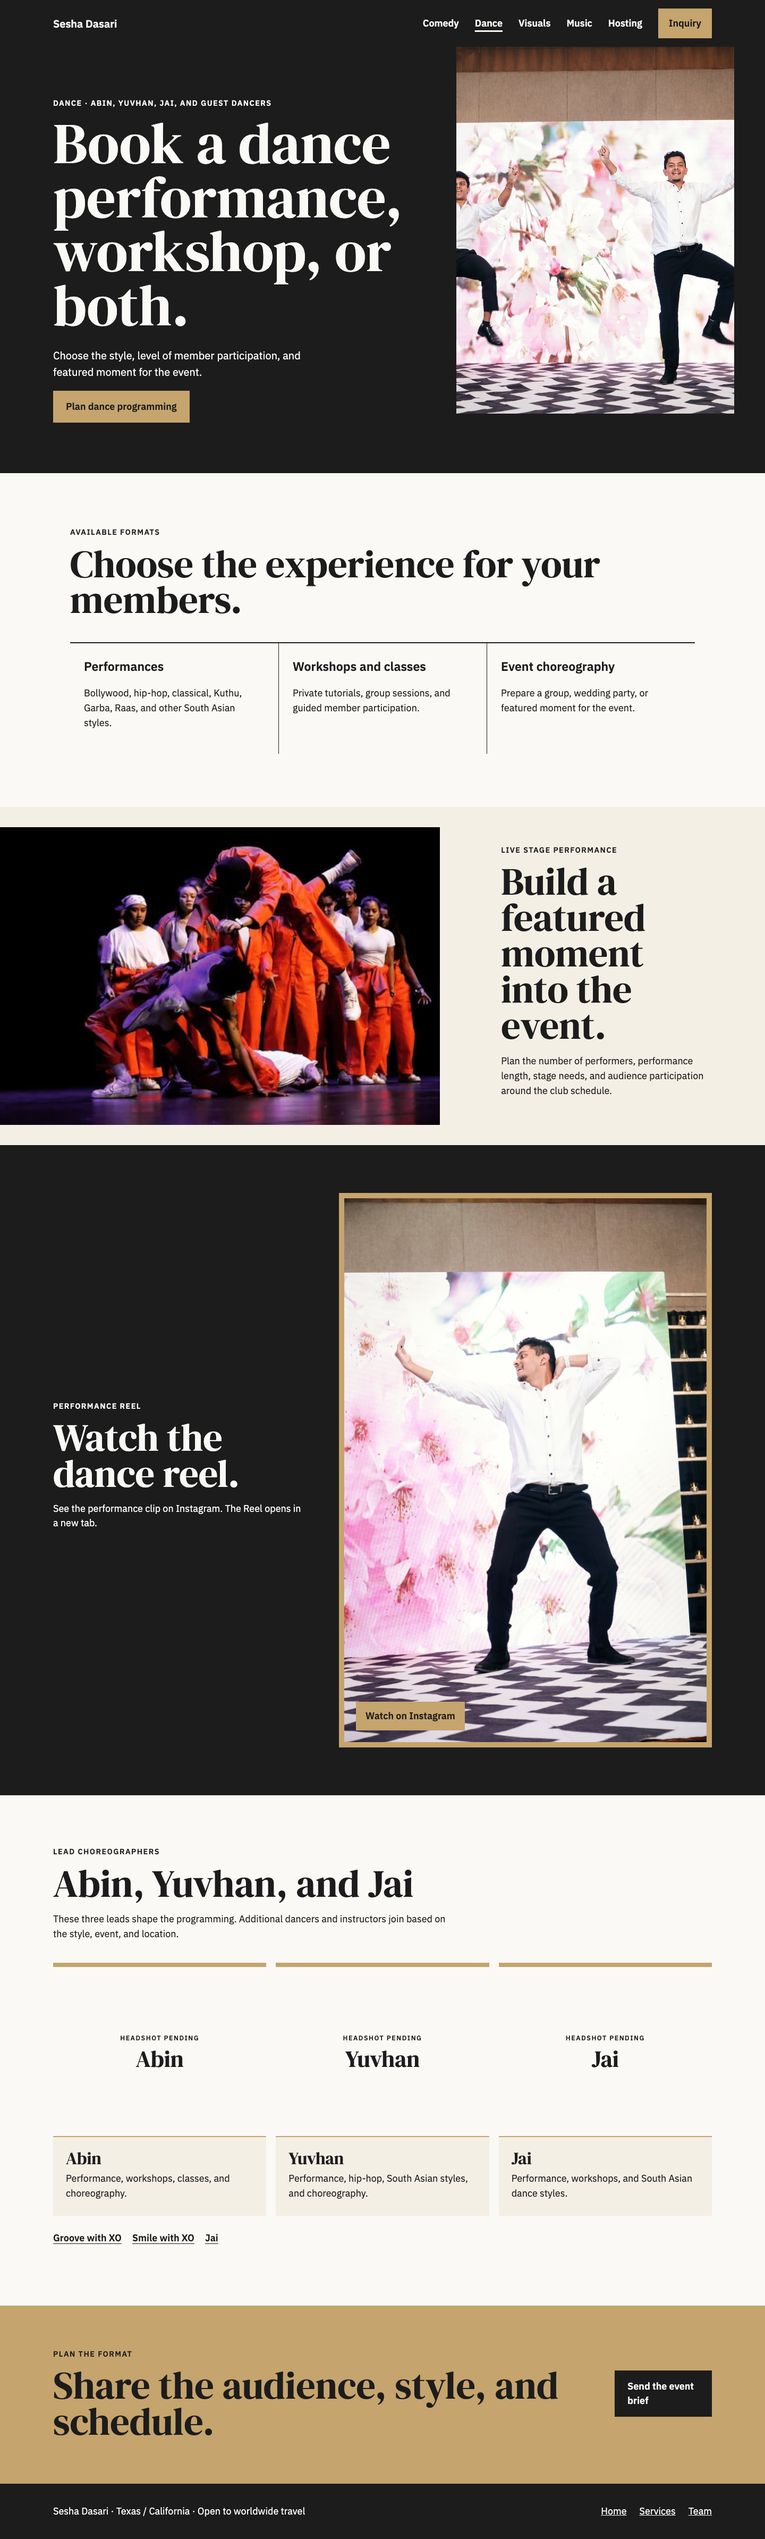
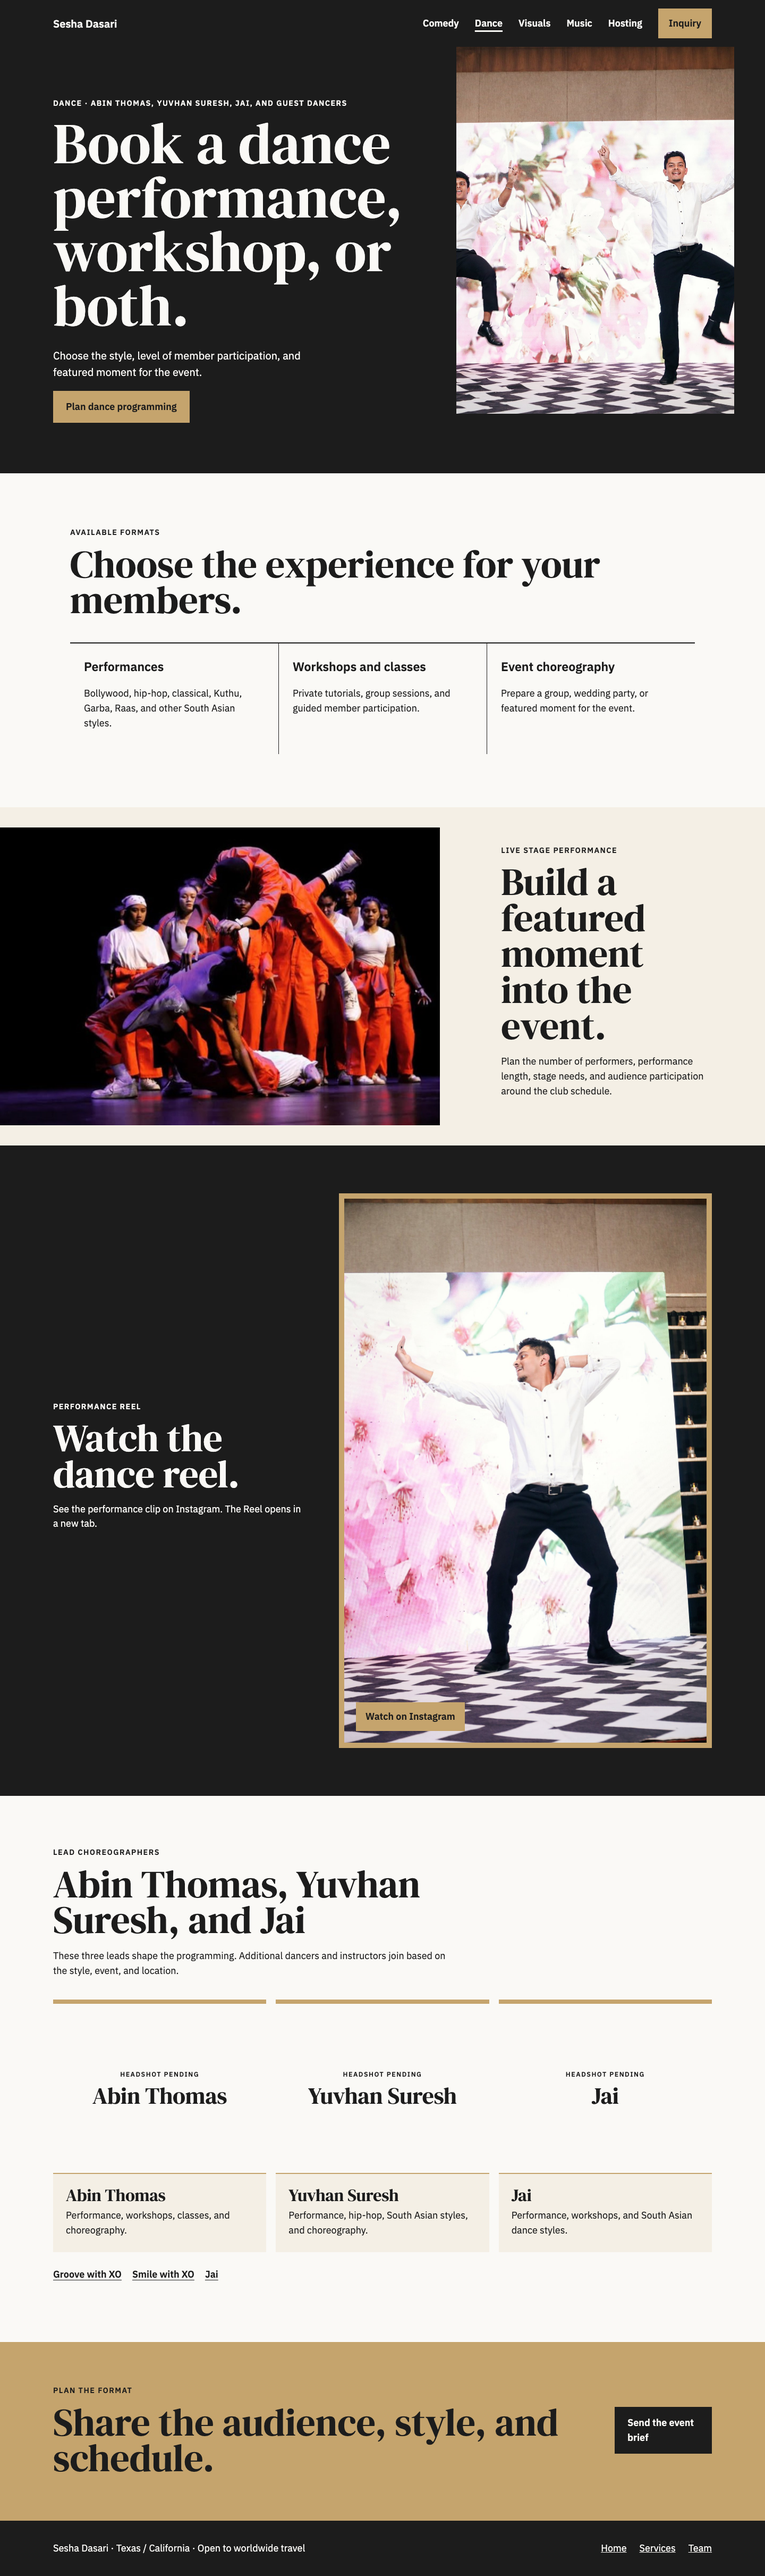
fix: publish dance lead surnames
Use Abin Thomas and Yuvhan Suresh consistently across the Dance, Services, Team, metadata, and handoff documentation. Keep Jai's surname unclaimed pending direct confirmation.

diff --git a/service-dance.html b/service-dance.html
@@ -1,12 +1,12 @@
 <!doctype html>
 <html lang="en">
-<head><meta charset="utf-8"><meta name="viewport" content="width=device-width, initial-scale=1"><meta name="description" content="Plan country-club dance performances, member workshops, choreography, and guided participation with Abin, Yuvhan, Jai, and guest dancers."><title>Country Club Dance Performances and Workshops | Sesha Dasari</title><link rel="preconnect" href="https://fonts.googleapis.com"><link rel="preconnect" href="https://fonts.gstatic.com" crossorigin><link href="https://fonts.googleapis.com/css2?family=DM+Serif+Display&family=IBM+Plex+Sans:wght@400;600&display=swap" rel="stylesheet"><link rel="stylesheet" href="variants.css"></head>
+<head><meta charset="utf-8"><meta name="viewport" content="width=device-width, initial-scale=1"><meta name="description" content="Plan country-club dance performances, member workshops, choreography, and guided participation with Abin Thomas, Yuvhan Suresh, Jai, and guest dancers."><title>Country Club Dance Performances and Workshops | Sesha Dasari</title><link rel="preconnect" href="https://fonts.googleapis.com"><link rel="preconnect" href="https://fonts.gstatic.com" crossorigin><link href="https://fonts.googleapis.com/css2?family=DM+Serif+Display&family=IBM+Plex+Sans:wght@400;600&display=swap" rel="stylesheet"><link rel="stylesheet" href="variants.css"></head>
 <body class="site-page variant-c c-inner-page"><a class="skip-link" href="#main">Skip to content</a><header class="site-top"><a class="site-brand" href="index.html">Sesha Dasari</a><nav aria-label="Main navigation"><a href="service-comedy.html">Comedy</a><a href="service-dance.html" aria-current="page">Dance</a><a href="service-media.html">Visuals</a><a href="service-music.html">Music</a><a href="service-hosting.html">Hosting</a><a class="nav-action" href="c-contact.html?service=dance">Inquiry</a></nav></header>
 <main id="main">
-  <section class="service-detail-hero"><div><p class="eyebrow">Dance · Abin, Yuvhan, Jai, and guest dancers</p><h1>Book a dance performance, workshop, or both.</h1><p class="lead">Choose the style, level of member participation, and featured moment for the event.</p><a class="primary-button" href="c-contact.html?service=dance">Plan dance programming</a></div><img src="assets/dance-team-performance.jpg" alt="Two dancers performing together on an event stage" width="2048" height="1365"></section>
+  <section class="service-detail-hero"><div><p class="eyebrow">Dance · Abin Thomas, Yuvhan Suresh, Jai, and guest dancers</p><h1>Book a dance performance, workshop, or both.</h1><p class="lead">Choose the style, level of member participation, and featured moment for the event.</p><a class="primary-button" href="c-contact.html?service=dance">Plan dance programming</a></div><img src="assets/dance-team-performance.jpg" alt="Two dancers performing together on an event stage" width="2048" height="1365"></section>
   <section class="detail-list" aria-labelledby="dance-includes"><p class="eyebrow">Available formats</p><h2 id="dance-includes">Choose the experience for your members.</h2><div><article><h3>Performances</h3><p>Bollywood, hip-hop, classical, Kuthu, Garba, Raas, and other South Asian styles.</p></article><article><h3>Workshops and classes</h3><p>Private tutorials, group sessions, and guided member participation.</p></article><article><h3>Event choreography</h3><p>Prepare a group, wedding party, or featured moment for the event.</p></article></div></section>
   <section class="photo-proof" aria-labelledby="dance-stage-title"><img src="assets/dance-ensemble-lift.jpg" alt="Dance ensemble performing a choreographed lift on stage" width="1280" height="634" loading="lazy"><div><p class="eyebrow">Live stage performance</p><h2 id="dance-stage-title">Build a featured moment into the event.</h2><p>Plan the number of performers, performance length, stage needs, and audience participation around the club schedule.</p></div></section>
   <section class="media-preview dance-reel-preview" aria-labelledby="dance-reel-title"><div><p class="eyebrow">Performance reel</p><h2 id="dance-reel-title">Watch the dance reel.</h2><p>See the performance clip on Instagram. The Reel opens in a new tab.</p></div><a class="reel-link" href="https://www.instagram.com/reel/DS6Wc6EjFTq/" target="_blank" rel="noreferrer" aria-label="Watch on Instagram: dance reel, opens in a new tab"><img src="assets/dance-solo-performance.jpg" alt="Dancer performing on a red-lit event stage" width="1365" height="2048" loading="lazy"><span>Watch on Instagram</span></a></section>
-  <section class="dance-leads" aria-labelledby="dance-leads-title"><div><p class="eyebrow">Lead choreographers</p><h2 id="dance-leads-title">Abin, Yuvhan, and Jai</h2><p>These three leads shape the programming. Additional dancers and instructors join based on the style, event, and location.</p></div><div class="dance-lead-grid"><article><div class="asset-placeholder"><span>Headshot pending</span><strong>Abin</strong></div><h3>Abin</h3><p>Performance, workshops, classes, and choreography.</p></article><article><div class="asset-placeholder"><span>Headshot pending</span><strong>Yuvhan</strong></div><h3>Yuvhan</h3><p>Performance, hip-hop, South Asian styles, and choreography.</p></article><article><div class="asset-placeholder"><span>Headshot pending</span><strong>Jai</strong></div><h3>Jai</h3><p>Performance, workshops, and South Asian dance styles.</p></article></div><p class="roster-links"><a href="https://www.instagram.com/groovewithxo" target="_blank" rel="noreferrer" aria-label="Groove with XO on Instagram, opens in a new tab">Groove with XO</a><a href="https://www.instagram.com/smilewithxo" target="_blank" rel="noreferrer" aria-label="Smile with XO on Instagram, opens in a new tab">Smile with XO</a><a href="https://www.instagram.com/jai.ramgopal" target="_blank" rel="noreferrer" aria-label="Jai Ramgopal on Instagram, opens in a new tab">Jai</a></p></section>
+  <section class="dance-leads" aria-labelledby="dance-leads-title"><div><p class="eyebrow">Lead choreographers</p><h2 id="dance-leads-title">Abin Thomas, Yuvhan Suresh, and Jai</h2><p>These three leads shape the programming. Additional dancers and instructors join based on the style, event, and location.</p></div><div class="dance-lead-grid"><article><div class="asset-placeholder"><span>Headshot pending</span><strong>Abin Thomas</strong></div><h3>Abin Thomas</h3><p>Performance, workshops, classes, and choreography.</p></article><article><div class="asset-placeholder"><span>Headshot pending</span><strong>Yuvhan Suresh</strong></div><h3>Yuvhan Suresh</h3><p>Performance, hip-hop, South Asian styles, and choreography.</p></article><article><div class="asset-placeholder"><span>Headshot pending</span><strong>Jai</strong></div><h3>Jai</h3><p>Performance, workshops, and South Asian dance styles.</p></article></div><p class="roster-links"><a href="https://www.instagram.com/groovewithxo" target="_blank" rel="noreferrer" aria-label="Groove with XO on Instagram, opens in a new tab">Groove with XO</a><a href="https://www.instagram.com/smilewithxo" target="_blank" rel="noreferrer" aria-label="Smile with XO on Instagram, opens in a new tab">Smile with XO</a><a href="https://www.instagram.com/jai.ramgopal" target="_blank" rel="noreferrer" aria-label="Jai Ramgopal on Instagram, opens in a new tab">Jai</a></p></section>
   <section class="inner-cta"><div><p class="eyebrow">Plan the format</p><h2>Share the audience, style, and schedule.</h2></div><a class="primary-button" href="c-contact.html?service=dance">Send the event brief</a></section>
 </main><footer><p>Sesha Dasari · Texas / California · Open to worldwide travel</p><nav aria-label="Footer navigation"><a href="index.html">Home</a><a href="c-services.html">Services</a><a href="c-team.html">Team</a></nav></footer></body></html>

diff --git a/c-services.html b/c-services.html
@@ -17,8 +17,8 @@
         <article class="service-card" data-category="hosting"><p class="card-label">Interviews</p><h3>Podcast and guest interviews</h3><p>Plan member conversations, on-site interviews, and written entertainment coverage.</p><p class="provider-line">Lead: Sesha</p><a href="c-contact.html?service=podcast">Request interview support</a></article>
         <article class="service-card" data-category="comedy"><p class="card-label">Member social</p><h3>Comedy and interactive game nights</h3><p>Build a member night around stand-up, improv, trivia, hosted games, or audience participation.</p><p class="provider-line">Team: Sesha, Rick Blaze, and guest performers</p><a href="service-comedy.html">View comedy</a></article>
         <article class="service-card" data-category="coaching"><p class="card-label">Workshop</p><h3>Acting, comedy, and on-camera sessions</h3><p>Offer members a private lesson, group workshop, audition session, or public-speaking practice.</p><p class="provider-line">Lead: Sesha</p><a href="c-contact.html?service=coaching">Request a workshop</a></article>
-        <article class="service-card" data-category="dance"><p class="card-label">Cultural programming</p><h3>Dance performances</h3><p>Book Bollywood, hip-hop, classical, Kuthu, Garba, Raas, and other South Asian styles.</p><p class="provider-line">Team: Yuvhan, Abin, and guest dancers</p><a href="service-dance.html">View dance</a></article>
-        <article class="service-card" data-category="dance"><p class="card-label">Member participation</p><h3>Dance workshops and choreography</h3><p>Add a guided class, group workshop, event choreography, or guest participation.</p><p class="provider-line">Team: Yuvhan and Abin</p><a href="c-contact.html?service=dance">Request a dance session</a></article>
+        <article class="service-card" data-category="dance"><p class="card-label">Cultural programming</p><h3>Dance performances</h3><p>Book Bollywood, hip-hop, classical, Kuthu, Garba, Raas, and other South Asian styles.</p><p class="provider-line">Team: Yuvhan Suresh, Abin Thomas, and guest dancers</p><a href="service-dance.html">View dance</a></article>
+        <article class="service-card" data-category="dance"><p class="card-label">Member participation</p><h3>Dance workshops and choreography</h3><p>Add a guided class, group workshop, event choreography, or guest participation.</p><p class="provider-line">Team: Yuvhan Suresh and Abin Thomas</p><a href="c-contact.html?service=dance">Request a dance session</a></article>
         <article class="service-card" data-category="media"><p class="card-label">Event coverage</p><h3>Photography and videography</h3><p>Capture the event for club communications, social posts, performer clips, and member recaps.</p><p class="provider-line">Team: Ashwin Suresh, Charlie Hooper, and Sidd Chauhan</p><a href="service-media.html">View visuals</a></article>
         <article class="service-card" data-category="media"><p class="card-label">Live coverage</p><h3>Livestream production</h3><p>Plan the stream, camera coverage, and live switching around the room and run of show.</p><p class="provider-line">Team selected per brief</p><a href="c-contact.html?service=livestream">Request livestream support</a></article>
         <article class="service-card" data-category="music"><p class="card-label">Live entertainment</p><h3>DJ sets, mixes, and music performers</h3><p>Build the soundtrack around the audience, room, schedule, and event format.</p><p class="provider-line">Roster built per event</p><a href="service-music.html">View music</a></article>

diff --git a/c-team.html b/c-team.html
@@ -12,9 +12,9 @@
     <section class="roster-section" aria-labelledby="roster-title"><div class="roster-heading"><p class="eyebrow">Selected for each event</p><h2 id="roster-title">Your event determines the roster.</h2><p>Choose one specialist or combine services. The final team depends on the audience, location, schedule, and format.</p></div><div class="roster-grid">
       <article class="roster-card roster-feature"><img src="assets/sesha-comedy-stage.jpg" alt="Sesha performing comedy with a microphone" width="1204" height="1606"><div><h3>Sesha Dasari</h3><p>Hosting · MC · Red carpet · Comedy · Improv · Acting and on-camera coaching · Podcast interviews · Creative production</p></div></article>
       <article class="roster-card roster-feature"><img src="assets/rick-stage.jpg" alt="Rick Blaze performing stand-up comedy on stage" width="1421" height="1895"><div><h3>Rick Blaze</h3><p>Stand-up comedy · Comedy showcases · Interactive entertainment</p></div></article>
-      <article class="roster-card roster-wide"><div class="asset-placeholder roster-photo-placeholder"><span>Three headshots pending</span><strong>Dance leads</strong><small>Abin · Yuvhan · Jai</small></div><div><h3>Abin, Yuvhan, and Jai</h3><p>Lead choreographers for dance performances, workshops, classes, and custom choreography. Additional dancers join based on the event.</p><a class="text-button" href="service-dance.html">View dance programming</a></div></article>
+      <article class="roster-card roster-wide"><div class="asset-placeholder roster-photo-placeholder"><span>Three headshots pending</span><strong>Dance leads</strong><small>Abin Thomas · Yuvhan Suresh · Jai</small></div><div><h3>Abin Thomas, Yuvhan Suresh, and Jai</h3><p>Lead choreographers for dance performances, workshops, classes, and custom choreography. Additional dancers join based on the event.</p><a class="text-button" href="service-dance.html">View dance programming</a></div></article>
       <article class="roster-card"><img src="assets/ashwin-dj.jpg" alt="Ashwin performing a DJ set at a live event" width="1607" height="1072"><div><h3>Ashwin</h3><p>Photography · Videography · Social content · DJ support</p></div></article>
-      <article class="roster-card"><img src="assets/abin-camera.jpg" alt="Abin holding a professional camera" width="840" height="1268"><div><h3>Abin, media</h3><p>Event photography · Videography · Creative production</p></div></article>
+      <article class="roster-card"><img src="assets/abin-camera.jpg" alt="Abin Thomas holding a professional camera" width="840" height="1268"><div><h3>Abin Thomas, media</h3><p>Event photography · Videography · Creative production</p></div></article>
       <article class="roster-card roster-text"><div><p class="card-label">Visual media team</p><h3>Ashwin Suresh, Charlie Hooper, and Sidd Chauhan</h3><p>Event photography · Videography · Livestreaming · Multi-camera production · Social content · Interviews · Behind-the-scenes coverage</p></div></article>
       <article class="roster-card roster-text"><div><p class="card-label">Music and live entertainment</p><h3>Sidd Chauhan</h3><p>DJ · MC · Music entertainment · Dhol players · Live-musician and performer sourcing</p></div></article>
       <article class="roster-card roster-text"><div><p class="card-label">Extended roster</p><h3>Built per event</h3><p>DJs · Musicians · Teaching artists · Guest comedians · Guest dancers · Additional creative specialists</p></div></article>

diff --git a/README.md b/README.md
@@ -42,7 +42,7 @@ The selected public direction uses no blue or red. Charcoal text on muted gold m
 • Services include hosting, MC work, red-carpet interviews, live event coverage, podcast facilitation, entertainment journalism, comedy, improv, games, coaching, dance, photography, videography, livestreaming, DJ services, music-performer sourcing, showcases, weddings, private parties, corporate events, and retreats.
 • The Services filters narrow the list by programming category.
 • Service links preselect the matching option in the inquiry form.
-• People work across multiple lanes. Sesha leads hosting, comedy, coaching, interviews, and production. Rick performs comedy. Yuvhan and Abin lead dance work. Charlie, Ashwin, and Abin support media work. Sidd supports DJ, MC, music entertainment, and performer sourcing. The extended roster adds musicians, teaching artists, comedians, dancers, and other specialists per event.
+• People work across multiple lanes. Sesha leads hosting, comedy, coaching, interviews, and production. Rick performs comedy. Yuvhan Suresh and Abin Thomas lead dance work. Charlie, Ashwin, and Abin Thomas support media work. Sidd supports DJ, MC, music entertainment, and performer sourcing. The extended roster adds musicians, teaching artists, comedians, dancers, and other specialists per event.
 • Video proof will link to YouTube or unlisted YouTube. The site will not host large video files.
 
 ## Form behavior

diff --git a/HANDOFF.md b/HANDOFF.md
@@ -5,7 +5,7 @@ This file is the operating guide for the Sesha Dasari event site.
 ## Current state
 
 • Source of truth: the `main` branch in the private GitHub repository.
-• Current release tag: `v0.3.9-club-calendar-headline`.
+• Current release tag: `v0.3.10-dance-lead-names`.
 • Production site: https://sesha-country-club-site.netlify.app/
 • Netlify project: https://app.netlify.com/projects/sesha-country-club-site
 • Netlify Forms: https://app.netlify.com/projects/sesha-country-club-site/forms
@@ -148,7 +148,7 @@ For a production rollback, use the Netlify Deploys page to publish the last know
 
 • Replace the Comedy and Hosting reel placeholders after Sesha supplies durable public video links or approved hosted files.
 • Confirm whether Abin already combined Rick's three comedy clips before creating a second edit.
-• Replace the Abin, Yuvhan, and Jai headshot placeholders after approved portraits and preferred full names arrive.
+• Replace the Abin Thomas, Yuvhan Suresh, and Jai headshot placeholders after approved portraits arrive. Confirm Jai's preferred full name before expanding his public label.
 • Connect GitHub to Netlify if the team wants automatic deploys after merges.
 • Connect a custom domain when the team selects one.
 • Confirm the Netlify notification email reaches Sesha outside the test environment.

diff --git a/VERSION_HISTORY.md b/VERSION_HISTORY.md
@@ -2,6 +2,17 @@
 
 This repository starts with honest source checkpoints. The labels below do not claim earlier Git history that never existed.
 
+## v0.3.10-dance-lead-names
+
+Dance-lead naming release.
+
+• Updates Abin's public name to Abin Thomas across the Dance, Services, and Team pages.
+• Updates Yuvhan's public name to Yuvhan Suresh across the Dance, Services, and Team pages.
+• Leaves Jai's surname unclaimed until it is confirmed directly.
+• Keeps the three approved-headshot placements as honest placeholders.
+
+Tested surfaces: public-name consistency, desktop and mobile layout, navigation, image loading, responsive overflow, production packaging, and live deployment.
+
 ## v0.3.9-club-calendar-headline
 
 Country-club hero copy release.
